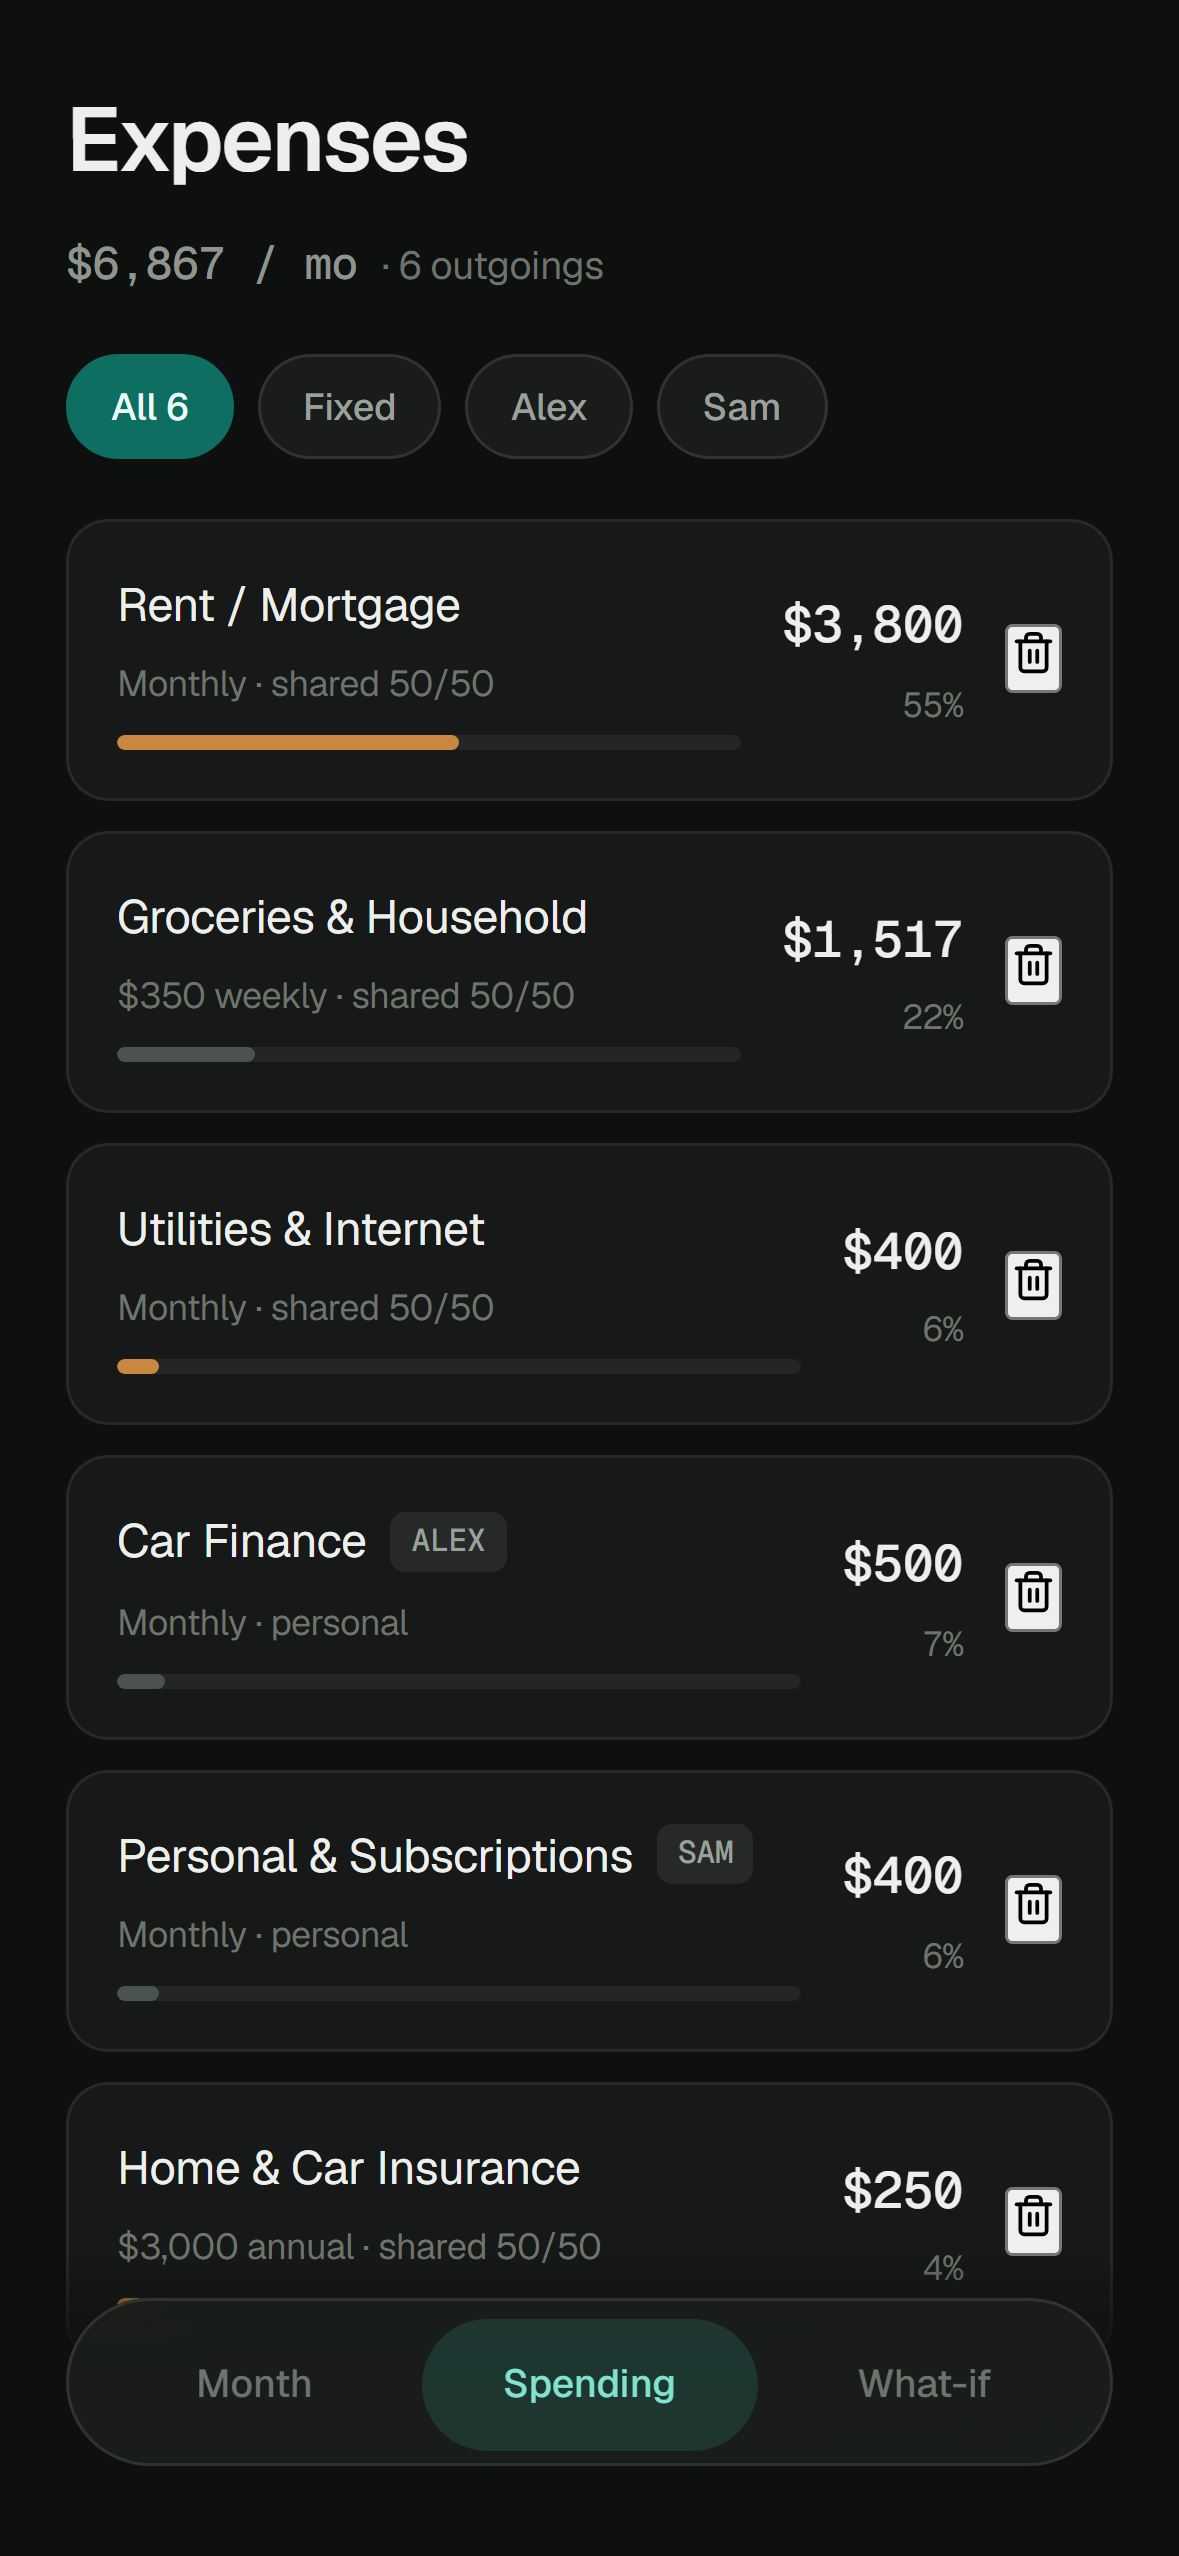
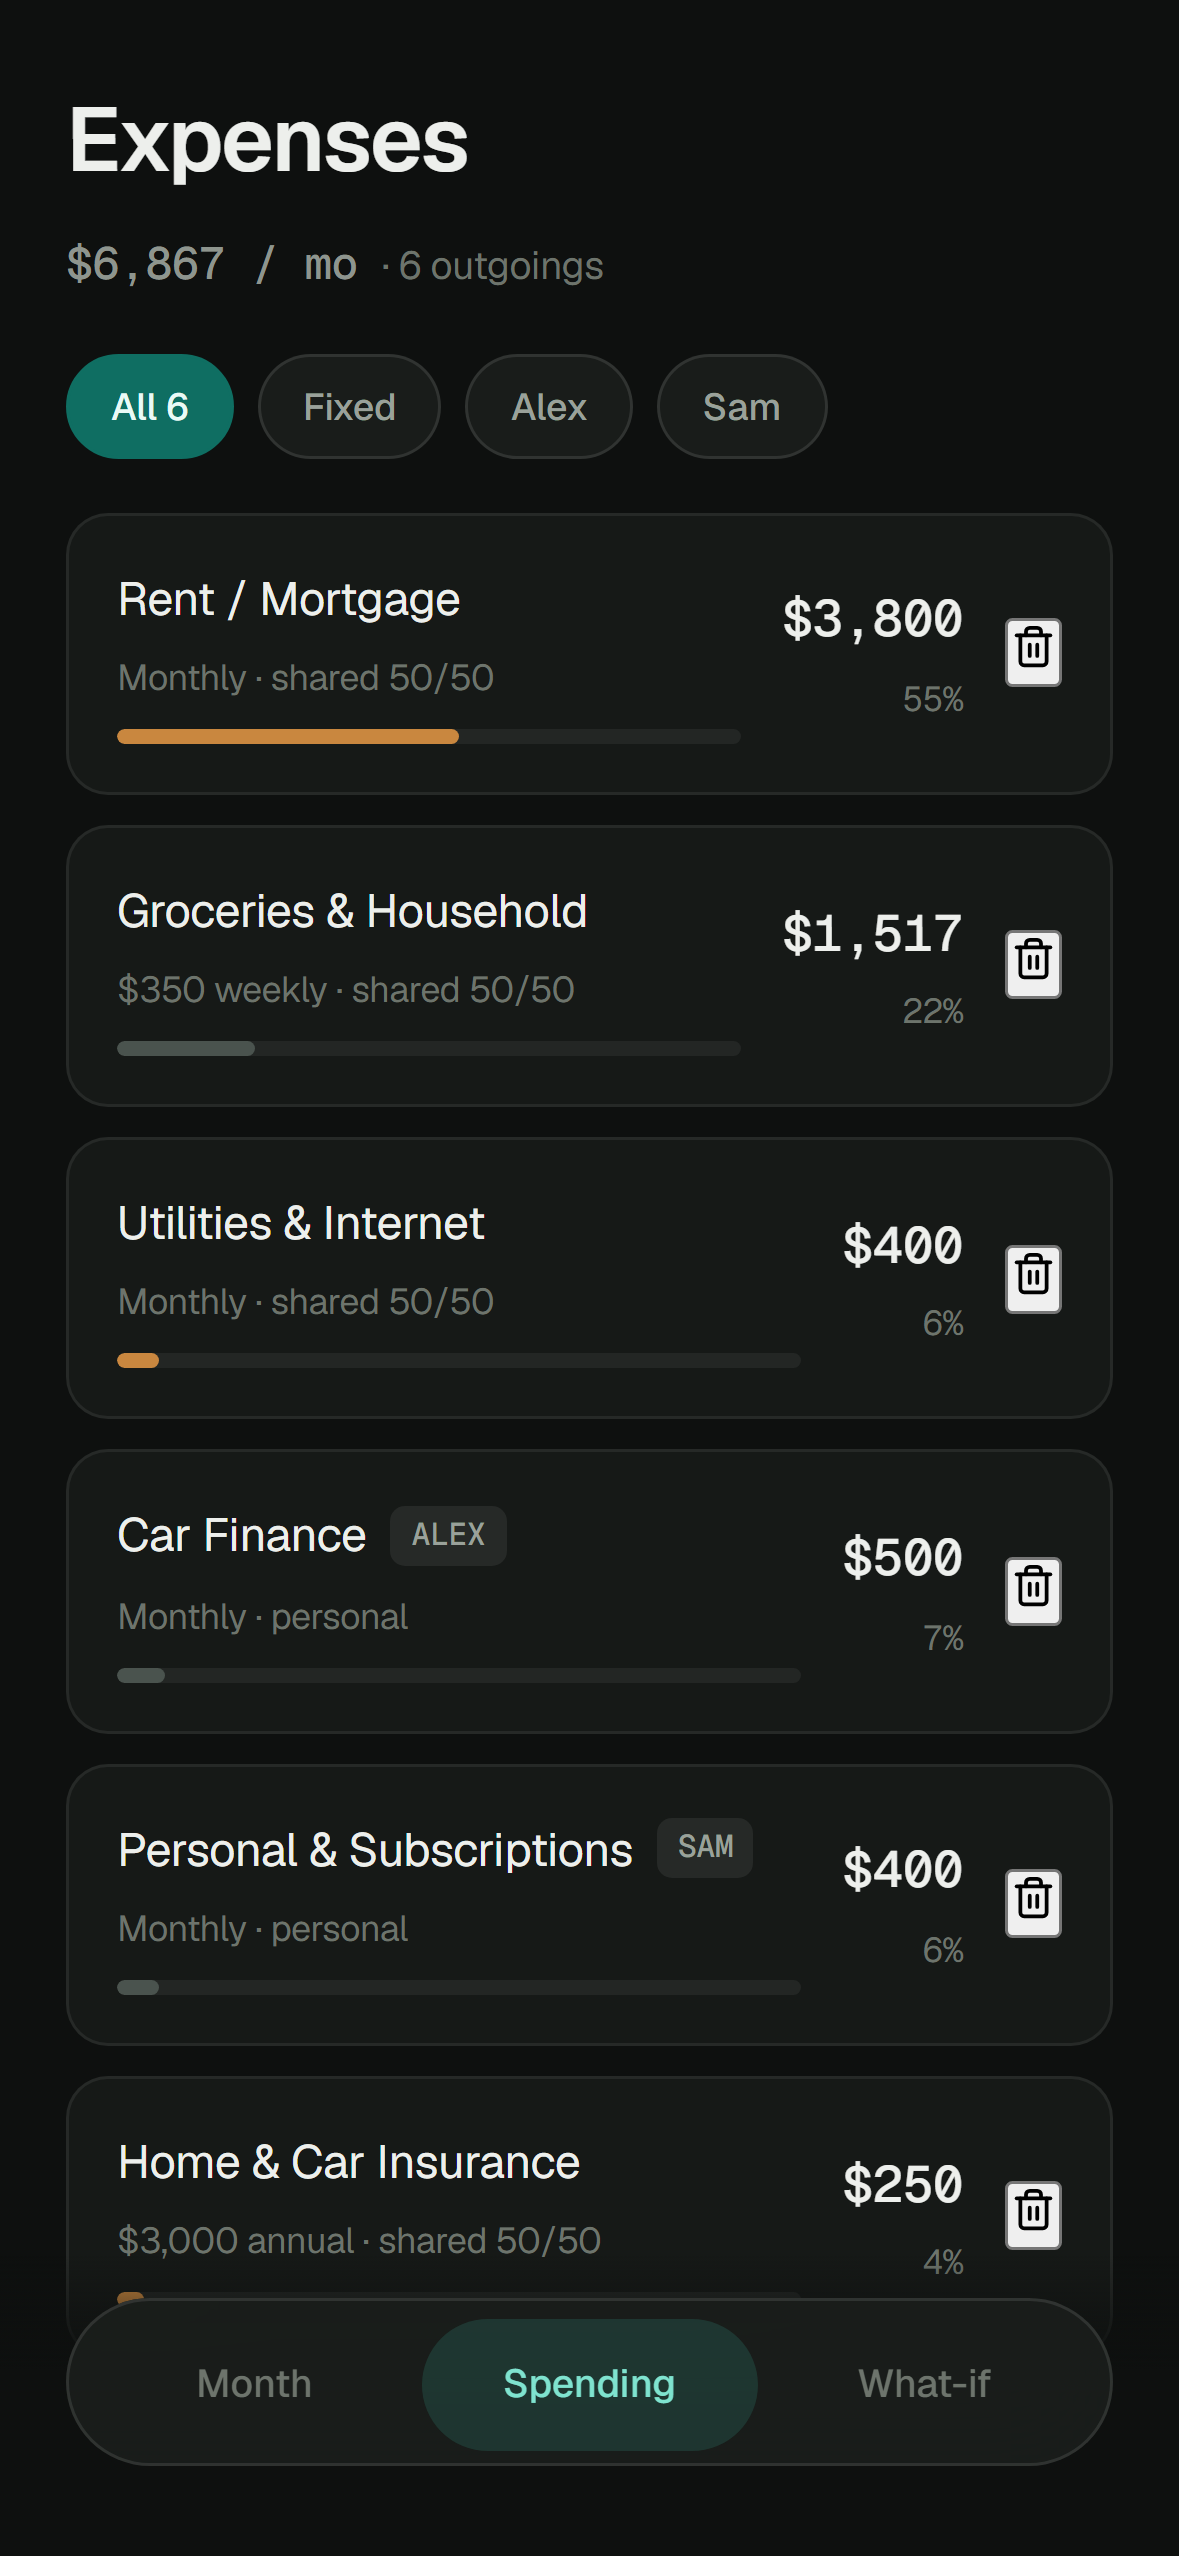
fix(css): enable natural flex-wrap on preset pills and eliminate horizontal side-scrolling

diff --git a/src/index.css b/src/index.css
@@ -52,7 +52,7 @@
   padding: 0;
 }
 
-body {
+html, body {
   background-color: var(--bg-main);
   color: var(--text-main);
   font-family: var(--font-body);
@@ -61,6 +61,9 @@ body {
   line-height: 1.5;
   min-height: 100vh;
   letter-spacing: -0.01em;
+  overflow-x: hidden;
+  max-width: 100vw;
+  width: 100%;
 }
 
 button, input, select, textarea {
@@ -73,6 +76,9 @@ button, input, select, textarea {
   display: flex;
   min-height: 100vh;
   background-color: var(--bg-main);
+  overflow-x: hidden;
+  max-width: 100vw;
+  width: 100%;
 }
 
 /* ==========================================================================
@@ -755,8 +761,8 @@ button, input, select, textarea {
 .category-filter-row {
   display: flex;
   gap: 8px;
-  overflow-x: auto;
-  padding-bottom: 2px;
+  flex-wrap: wrap;
+  overflow: visible;
 }
 
 .cat-filter-btn {
@@ -768,7 +774,6 @@ button, input, select, textarea {
   font-size: 12.5px;
   font-weight: 500;
   cursor: pointer;
-  white-space: nowrap;
   transition: all 0.2s ease;
 }
 
